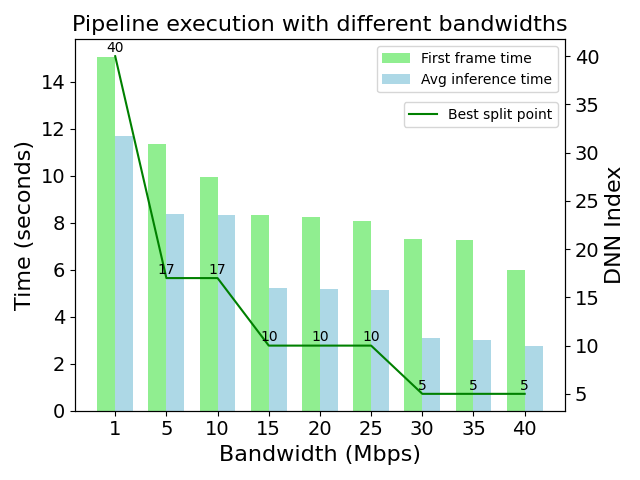
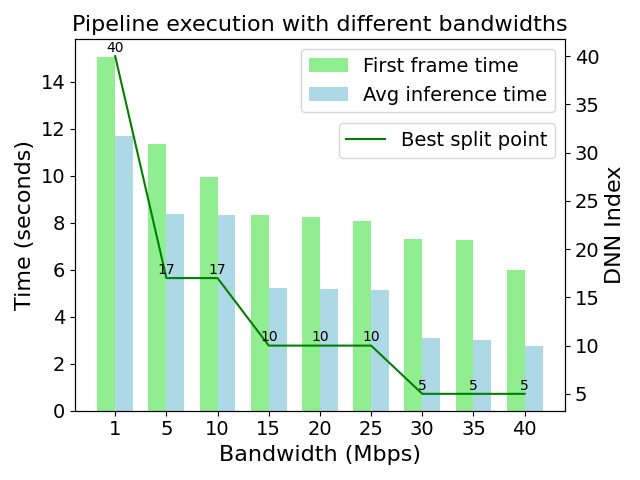
update for clear result

Changed region(s): [[0.4688, 0.0938, 0.875, 0.3125], [0.5625, 0.2812, 0.5938, 0.3125]]

diff --git a/result_for_docker_sim/pipeline_different_bandwidth.py b/result_for_docker_sim/pipeline_different_bandwidth.py
@@ -50,8 +50,8 @@ ax1.tick_params(axis='both', which='major', labelsize=14)
 ax2.tick_params(axis='both', which='major', labelsize=14)
 
 # 添加图例
-ax1.legend(loc='upper right', bbox_to_anchor=(1.0, 1.0))
-ax2.legend(loc='upper right', bbox_to_anchor=(1.0, 0.85))
+ax1.legend(loc='upper right', bbox_to_anchor=(1.0, 1.0), fontsize=14)
+ax2.legend(loc='upper right', bbox_to_anchor=(1.0, 0.8), fontsize=14)
 
 # 添加刻度标签
 plt.xticks(index, bandwidths)
